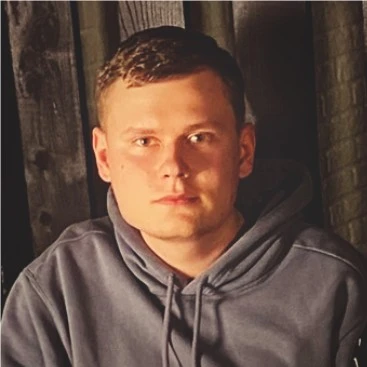
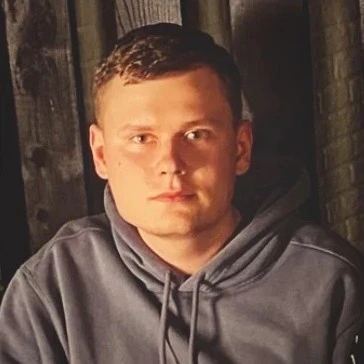
Update header styling, make focused nav links distinguishable on tab focus.

diff --git a/assets/css/main.css b/assets/css/main.css
@@ -3,7 +3,7 @@
 
 :root {
     --text-color-dark: #e4ae00;
-    --text-color-light: #494b49;
+    --text-color-light: #414241;
     --background-color-dark: #121524;
     --background-color-light: #ebeef2;
     --transition-duration: 0ms;
@@ -15,12 +15,12 @@ body {
     min-width: 46.875rem;
     max-width: 56.5625rem;
     box-sizing: border-box;
+    scrollbar-gutter: stable;
     font-family: 'Fira Code', sans-serif;
     text-rendering: optimizeLegibility;
     -webkit-font-smoothing: antialiased;
     -moz-osx-font-smoothing: grayscale;
     background-size: clamp(3rem, 10vw, 4rem) clamp(3rem, 10vw, 4rem);
-    scrollbar-gutter: stable;
 }
 
 body {
@@ -57,9 +57,9 @@ h1 {
 }
 
 header h1 {
-    font-weight: 300;
+    font-weight: 600;
     line-height: 1em;
-    font-size: clamp(2.5rem, 5vw, 3.5rem);
+    font-size: clamp(2rem, 5vw, 2.5rem);
 }
 
 header h2 {
@@ -80,6 +80,11 @@ header h3 {
     column-gap: 1.5rem;
     align-items: center;
     margin-top: 5.25rem;
+}
+
+.profile .profile-location span {
+    display: inline-block;
+    vertical-align: middle;
 }
 
 /* Icons */
@@ -203,9 +208,11 @@ header h3 {
 }
 
 .avatar {
-    border-radius: 50%;
     width: 7.8125rem;
     height: 7.8125rem;
+    border-width: 1px;
+    border-radius: 0.375rem;
+    border: 1px solid #2f2f2f5f;
 }
 
 @media screen and (max-width: 64em) {
@@ -220,10 +227,6 @@ header h3 {
         align-self: center;
         align-items: center;
         flex-direction: column;
-    }
-
-    .profile .profile-location span {
-        display: block;
     }
 
     .tabs {
@@ -259,13 +262,6 @@ article p.quote {
     }
 }
 
-@media (max-width: 18.75em) {
-
-    .tab {
-        text-align: left;
-    }
-}
-
 main {
     flex: 1;
 }
@@ -292,8 +288,9 @@ main section article .technologies {
 }
 
 main section article .technologies span {
-    border-width: 0.0625rem;
+    cursor: default;
     border-style: solid;
+    border-width: 0.0625rem;
     border-radius: 0.375rem;
     padding: 0.25rem 0.5rem;
     transition: color var(--transition-duration) ease-in-out, background-color var(--transition-duration) ease-in-out;
@@ -331,6 +328,14 @@ main section article .technologies span {
 
 .theme.dark .theme-switcher {
     background-image: url("../images/icons/theme-dark.svg");
+}
+
+.theme.light .avatar {
+    border-color: color-mix(in srgb, var(--text-color-light), transparent 25%);
+}
+
+.theme.dark .avatar {
+    border-color: color-mix(in srgb, var(--text-color-dark), transparent 25%);
 }
 
 .theme.light main section article,
@@ -406,11 +411,13 @@ main section article .technologies span {
     color: var(--background-color-dark);
 }
 
-.theme.light .tab:hover {
+.theme.light .tab a:hover,
+.theme.light .tab a:focus {
     background-color: color-mix(in srgb, var(--text-color-light), transparent 75%);
 }
 
-.theme.dark .tab:hover {
+.theme.dark .tab a:hover,
+.theme.dark .tab a:focus {
     background-color: color-mix(in srgb, var(--text-color-dark), transparent 75%);
 }
 

diff --git a/assets/education.html b/assets/education.html
@@ -59,8 +59,7 @@
 
         <div class="profile-location flex col-gap-1">
             <div class="flex row-center-y">
-                <span class="icon location medium"></span>
-                <h3>Kaunas, Lithuania</h3>
+                <h3><span class="icon location medium"></span>Kaunas, Lithuania</h3>
             </div>
 
             <div class="flex col-gap-1">

diff --git a/assets/index.html b/assets/index.html
@@ -59,8 +59,7 @@
 
         <div class="profile-location flex col-gap-1">
             <div class="flex row-center-y">
-                <span class="icon location medium"></span>
-                <h3>Kaunas, Lithuania</h3>
+                <h3><span class="icon location medium"></span>Kaunas, Lithuania</h3>
             </div>
 
             <div class="flex col-gap-1">

diff --git a/assets/positions.html b/assets/positions.html
@@ -59,8 +59,7 @@
 
         <div class="profile-location flex col-gap-1">
             <div class="flex row-center-y">
-                <span class="icon location medium"></span>
-                <h3>Kaunas, Lithuania</h3>
+                <h3><span class="icon location medium"></span>Kaunas, Lithuania</h3>
             </div>
 
             <div class="flex col-gap-1">

diff --git a/assets/projects.html b/assets/projects.html
@@ -59,8 +59,7 @@
 
         <div class="profile-location flex col-gap-1">
             <div class="flex row-center-y">
-                <span class="icon location medium"></span>
-                <h3>Kaunas, Lithuania</h3>
+                <h3><span class="icon location medium"></span>Kaunas, Lithuania</h3>
             </div>
 
             <div class="flex col-gap-1">

diff --git a/htmlgen/templates/partials/header.html b/htmlgen/templates/partials/header.html
@@ -6,8 +6,7 @@
 
         <div class="profile-location flex col-gap-1">
             <div class="flex row-center-y">
-                <span class="icon location medium"></span>
-                <h3>Kaunas, Lithuania</h3>
+                <h3><span class="icon location medium"></span>Kaunas, Lithuania</h3>
             </div>
 
             <div class="flex col-gap-1">
